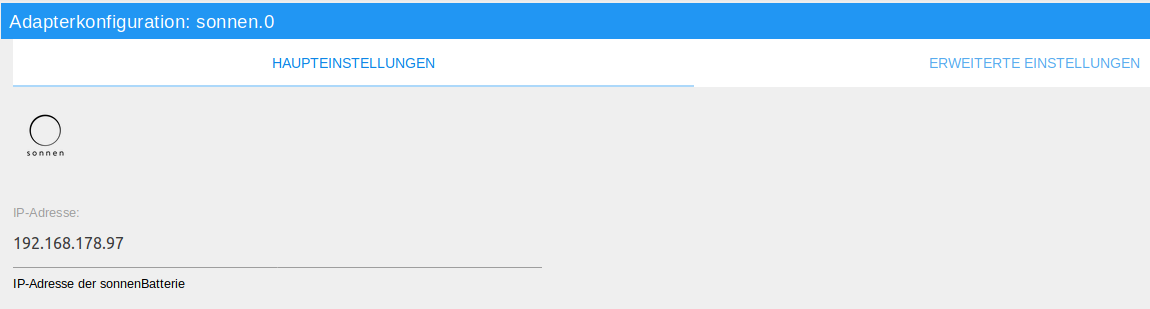
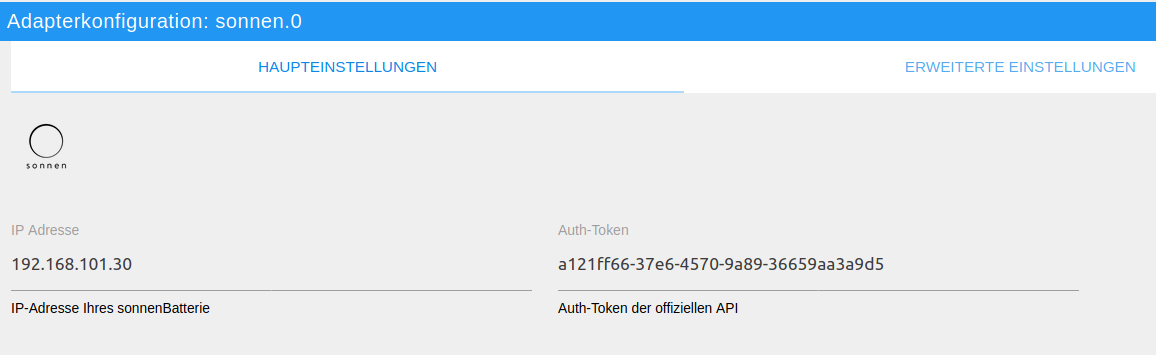
documentation for new api
- closes #36

diff --git a/README.md b/README.md
@@ -32,7 +32,8 @@ Additional to the adapter installation you have to add an instance of the adapte
 2. Navigate to Tab "Adapters"
 3. Click on the three points and then on the "+" symbol of the sonnen adapter
 ![Add Adapter](/docs/en/media/addInstance.png)
-4. Now you can see the main settings of the adapter configuration page --> type in the ip-address of your sonnen battery
+4. Now you can see the main settings of the adapter configuration page --> type in the ip-address of your sonnen battery.
+__It is also strongly recommended, to provide an API key, which can be found in the webinterface of your sonnen battery (Tab: Software Integration). Otherwise, the adapter uses the unofficial API.__
 ![Main Settings](/docs/en/media/mainSettings.png)
 5. If you want to thange the interval in which the states are polled, click on the tab "Advanced Settings"
 6. You can set the poll interval between 2000 ms (2 seconds) and 60000 ms (1 minute), the default value is 7 seconds

diff --git a/docs/de/README.md b/docs/de/README.md
@@ -41,6 +41,9 @@ Nach Abschluss der Installation einer Adapterinstanz öffnet sich automatisch ei
 |:-------------|:-------------|
 |IP-Adresse    |Hier soll die IP-Adresse der gewünschten sonnenBatterie angegeben werden.|
 
+| Feld         | Beschreibung |                                                                       
+|:-------------|:-------------|
+|Auth-Token    |Hier soll der Auth-Token eingegeben werden, welcher im sonnen Webinterface unter "Software Integration" zu finden ist. Wird kein Auth-Token eingegeben, wird die inoffizielle API genutzt, welche jederzeit abgeschaltet werden kann.|
 
 ### Fenster "Erweiterte Einstellungen"
 ![Advanced Settings](media/advancedSettings.png "Erweiterte Einstellungen")
